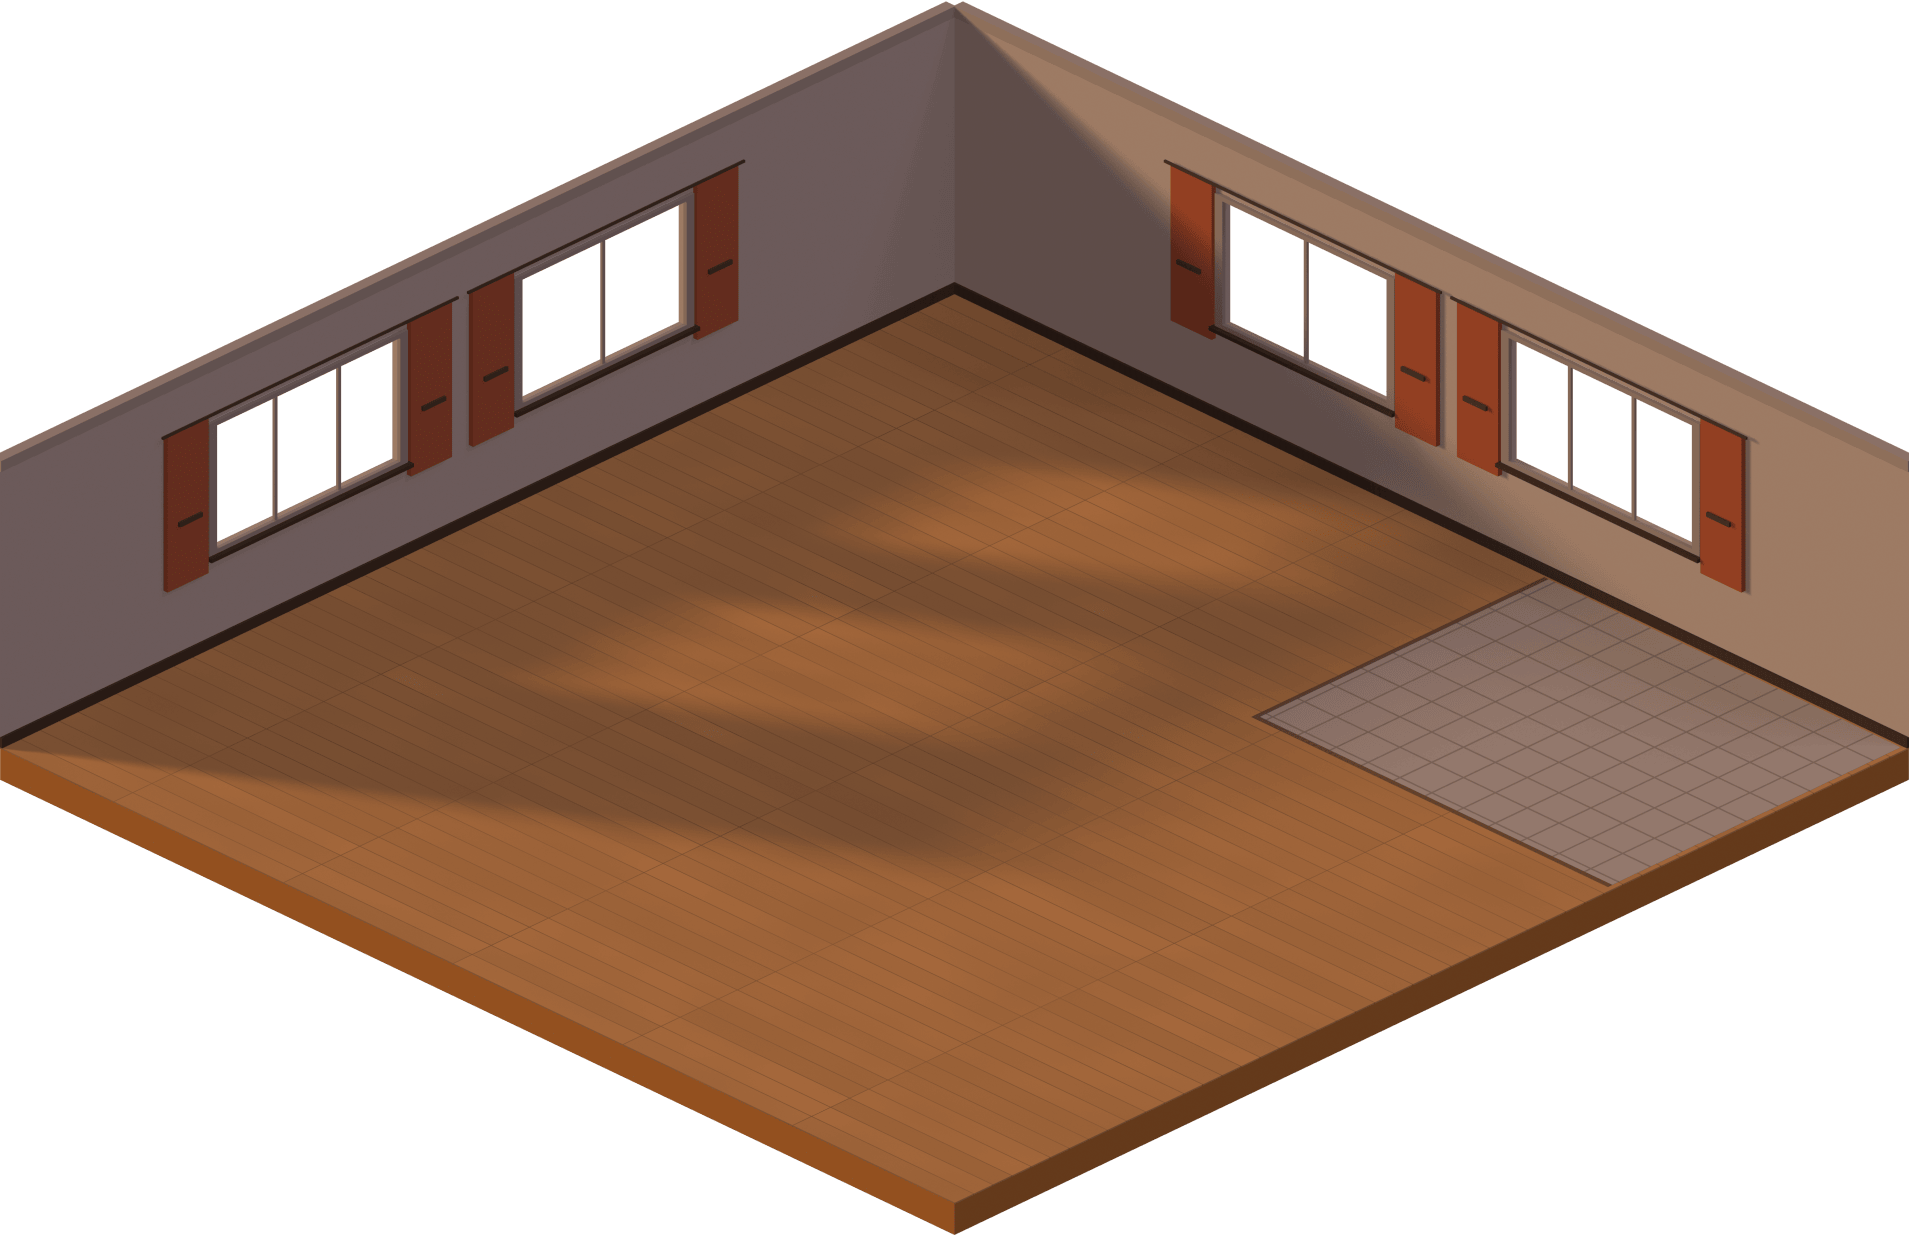
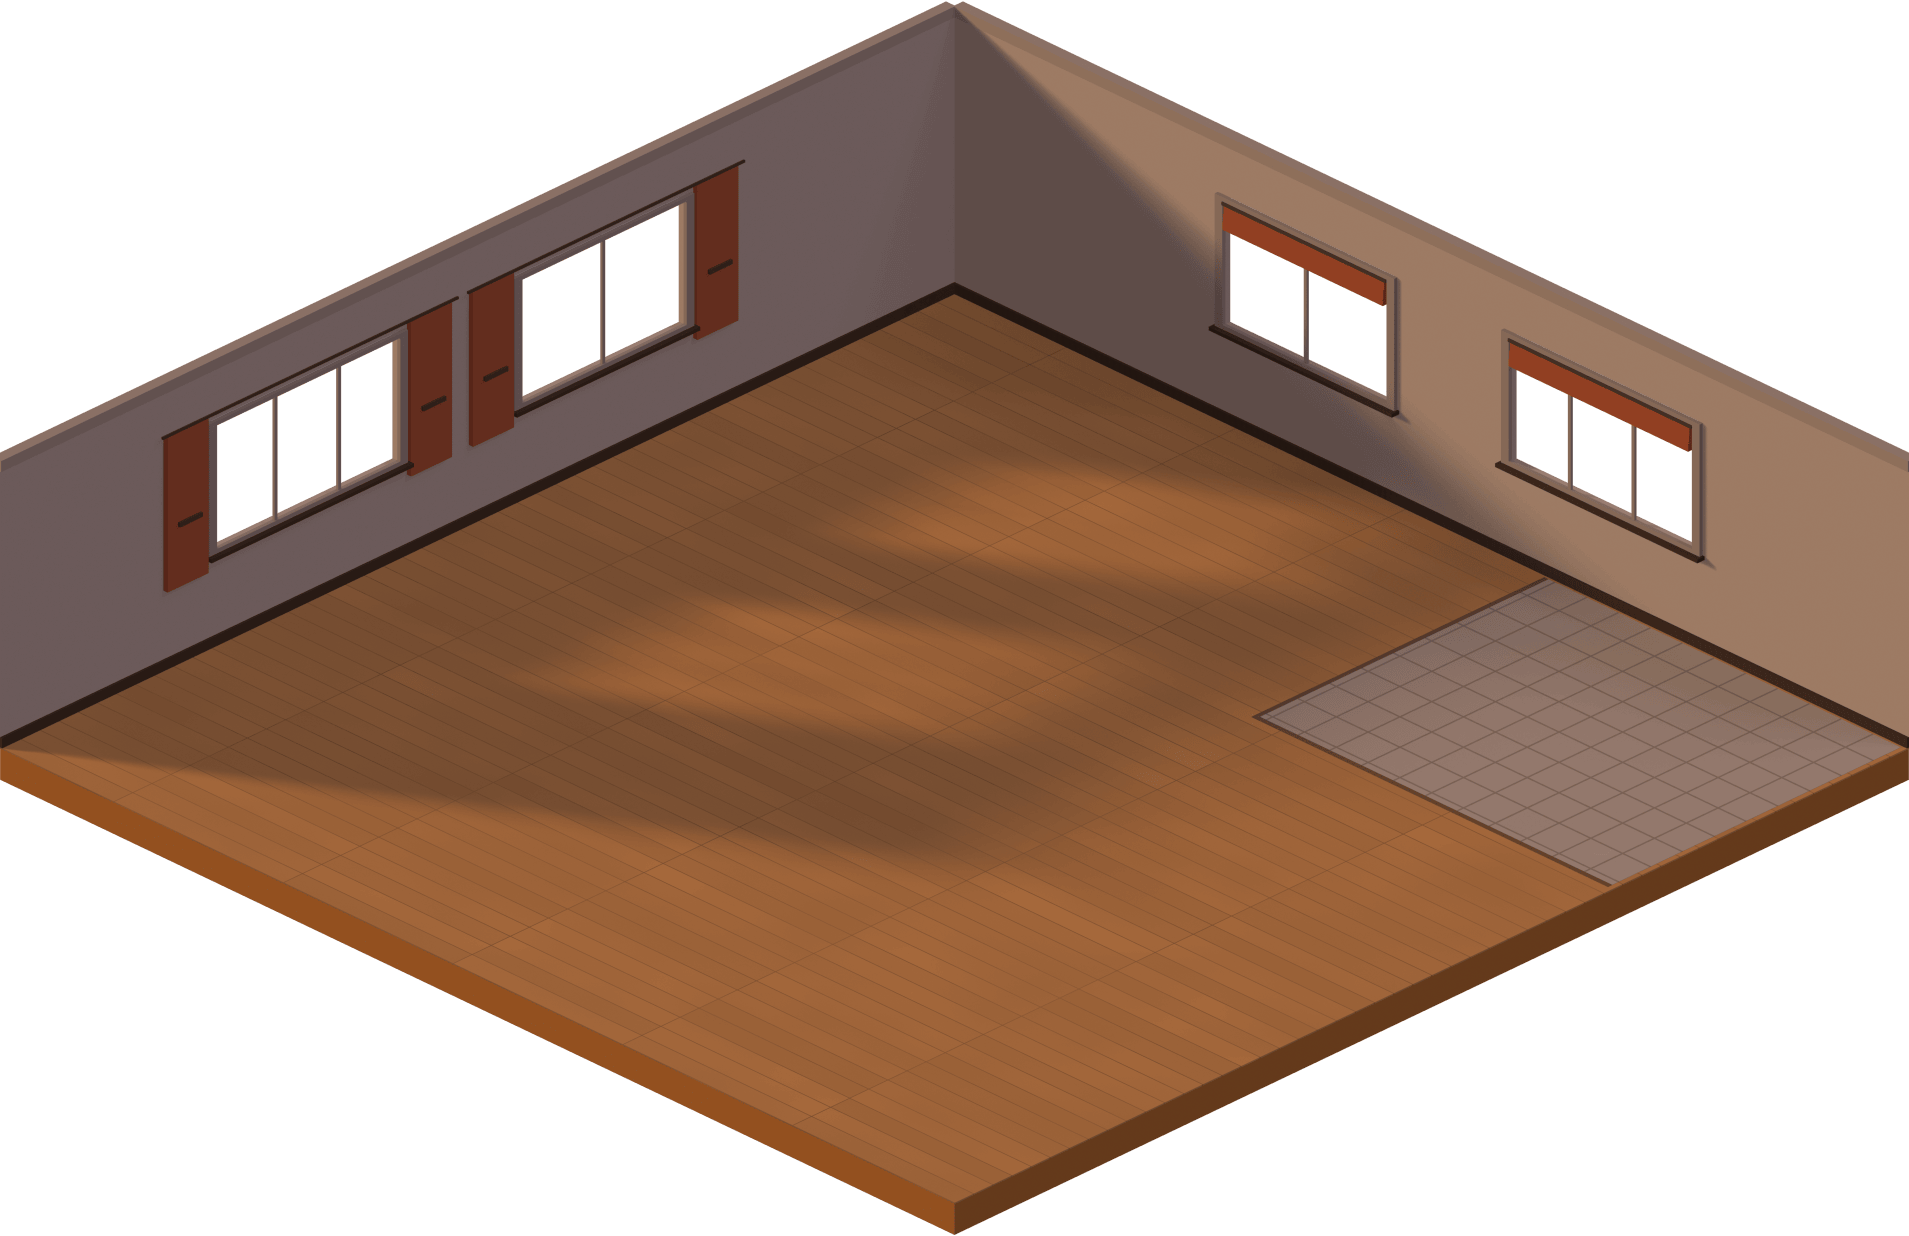
office: roman shades on the right wall's windows, so nothing hangs on a window treatment (lane 01M6H8TVEQ)
The right wall's clock, calendar and work board all hung on a drape. nick chose roman shades for that
wall from mockups (2026-11-03): the same terracotta cloth folded inside each frame's top, so all three
fixtures stay where they are. The left wall keeps its drapes. layout.ts WINDOW_TREATMENT records which
wall wears which, and layout.test.ts now holds every painting, the board and the calendar clear of them.

Claude-Session: https://claude.ai/code/session_019G7kwaZi4ijECJawYtiv2A

Changed region(s): [[0.5872, 0.123, 0.9272, 0.4919]]

diff --git a/packages/web/src/live/office-scene/layout.test.ts b/packages/web/src/live/office-scene/layout.test.ts
@@ -36,6 +36,7 @@ import {
   SHELF_CHIMES,
   WALL_BOARD,
   WORKING_HOURS_CALENDAR,
+  WINDOW_TREATMENT,
   WINDOWS,
   BENCH,
   WINDOW_DESKS,
@@ -278,15 +279,21 @@ describe('the walls are not a matched set', () => {
     }
   });
 
-  it('never hangs a picture on a window treatment', () => {
-    // Every window wears a rod and two tied-back drapes that reach DRAPE_REACH past its frame (nick,
-    // 2026-11-03: "none of the art should be on top of any window treatments"). Two pieces sat on a
-    // drape's edge until then.
-    for (const a of ART) {
-      const half = a.w / 2 / FLOOR;
+  it('hangs nothing on a window treatment', () => {
+    // Drapes reach DRAPE_REACH past a window's frame; a shade stays inside it (nick, 2026-11-03: "none
+    // of the art should be on top of any window treatments"). Two paintings, the clock, the calendar
+    // and the board all sat on a drape until then.
+    const onWall = [
+      ...ART.map((a) => ({ what: a.painting, wall: a.wall, tc: a.tc, w: a.w })),
+      { what: 'work board', ...WALL_BOARD },
+      { what: 'calendar', ...WORKING_HOURS_CALENDAR },
+    ];
+    for (const o of onWall) {
+      const reach = WINDOW_TREATMENT[o.wall] === 'drapes' ? DRAPE_REACH : 0;
+      const half = o.w / 2 / FLOOR;
       for (const w of WINDOWS) {
-        const overlaps = a.tc + half > w.t0 - DRAPE_REACH && a.tc - half < w.t1 + DRAPE_REACH;
-        expect(overlaps, `art (${a.painting} on wall ${a.wall} at t=${a.tc}) overlaps a drape`).toBe(false);
+        const overlaps = o.tc + half > w.t0 - reach && o.tc - half < w.t1 + reach;
+        expect(overlaps, `${o.what} on wall ${o.wall} at t=${o.tc} overlaps a window treatment`).toBe(false);
       }
     }
   });

diff --git a/packages/web/src/live/office-scene/layout.ts b/packages/web/src/live/office-scene/layout.ts
@@ -789,9 +789,9 @@ export interface ArtPiece {
 
 export const ART: readonly ArtPiece[] = [
   // back-left wall: a large landscape near the corner, then the salon cluster of three over the front
-  // door. Both walls are mostly glass and every window wears drapes that reach `DRAPE_REACH` past its
-  // frame, so the only places a picture can hang are the corner stretch (t < 0.225) and the far end
-  // (t > 0.835) — `layout.test.ts` holds both, because the first cut hung three of these ON a window
+  // door. Both walls are mostly glass and this wall's windows wear drapes that reach `DRAPE_REACH` past
+  // their frames, so the only places a picture can hang are the corner stretch (t < 0.225) and the far
+  // end (t > 0.835) — `layout.test.ts` holds both, because the first cut hung three of these ON a window
   // and the next hung two on a drape (nick, 2026-11-03: "none of the art should be on top of any
   // window treatments").
   //
@@ -813,6 +813,14 @@ export const ART: readonly ArtPiece[] = [
  * plus the rod's 0.01 overhang). Nothing hangs on the wall inside that band.
  */
 export const DRAPE_REACH = 0.055;
+
+/**
+ * What each back wall's windows wear, indexed like `WALL_EDGES` (`scene.py` `wall` builds the same).
+ * The right wall's are roman shades folded inside the frame's top: its clock, calendar and work board
+ * fill the wall beside the glass, and drapes there hung over all three (nick chose the shades from
+ * mockups, 2026-11-03).
+ */
+export const WINDOW_TREATMENT = ['drapes', 'shades'] as const;
 
 /**
  * The Team-schedule calendar, directly beneath the right-wall clock — the clock's companion, and read

diff --git a/packages/web/art/office/scene.py b/packages/web/art/office/scene.py
@@ -1693,6 +1693,20 @@ def wall(asset_id: str, which: int, zs: float, col) -> bpy.types.Object:
             tt = t0 + (t1 - t0) * k / mull
             parts.append(place(f"{asset_id}/win{i}-mullion{k}", tt - 0.0015, tt + 0.0015, z0, z1 - z0, T / 2 + 1.3, 2, frame))
         parts.append(place(f"{asset_id}/win{i}-sill", t0 - 0.006, t1 + 0.006, z0 - 2.5, 2.5, T / 2 + 3.5, 7, skirt))
+        # Window treatments. The left wall's windows wear drapes; the right wall's wear roman shades, because
+        # its clock, calendar and work board fill the wall beside the glass and a drape would hang over
+        # them (nick, 2026-11-03: "none of the art should be on top of any window treatments"; he chose
+        # the shades from mockups). Neither ever covers the visible glass below the shade's folds.
+        if which == 1:
+            # A roman shade inside each frame, drawn up to its top fifth: a headrail and three soft folds,
+            # each a touch deeper than the one above, in the drapes' cloth.
+            sh = (z1 - z0) * 0.2
+            top = z1 - 3
+            parts.append(place(f"{asset_id}/win{i}-headrail", t0 + 0.004, t1 - 0.004, top - 2.2, 2.2, T / 2 + 2.4, 3.4, rod))
+            fh = (sh - 2.2) / 3
+            for k in range(3):
+                parts.append(place(f"{asset_id}/win{i}-fold{k}", t0 + 0.006, t1 - 0.006, top - 2.2 - fh * (k + 1), fh, T / 2 + 2.2, 3.0 + 1.2 * k, cloth))
+            continue
         # Drapes (window views, lane 01M6ENGW2H): a rod above the frame and two tied-back panels hung on the
         # wall BESIDE the frame — never over the pane, so the visible glass and the floor light are unchanged.
         dw = 0.045  # a panel's width along the wall, as a fraction of it

diff --git a/packages/web/art/office/README.md b/packages/web/art/office/README.md
@@ -56,8 +56,10 @@ would ship. Without `cwebp` the PNG stays and the runtime reads either.
 
 - **The shell**, `room/light-<day|evening|night>`: floor, both back walls, windows and skirting, all
   together, under one light rig per day state. Since window views (lane 01M6ENGW2H) the panes are
-  **transparent** — the plaster is built in pieces around them — and each window wears a rod and two
-  tied-back terracotta drapes on the wall beside its frame; the runtime paints the sky and the land
+  **transparent** — the plaster is built in pieces around them. The left wall's windows wear a rod and
+  two tied-back terracotta drapes beside the frame; the right wall's wear roman shades folded inside the
+  frame's top, because its clock, calendar and board fill the wall beside the glass (lane 01M6H8TVEQ,
+  `layout.ts` `WINDOW_TREATMENT`). The runtime paints the sky and the land
   plates under the shell (`windowView.ts`), so the glow the panes used to emit lives outside now (`LIGHT_STATES` in `scene.py`: sun, fill, world, what
   the panes emit, the window spots that pool light on the floor). `roomState.ts` crossfades the two
   nearest over 45 minutes at each edge (07:00, 16:30, 19:00).
